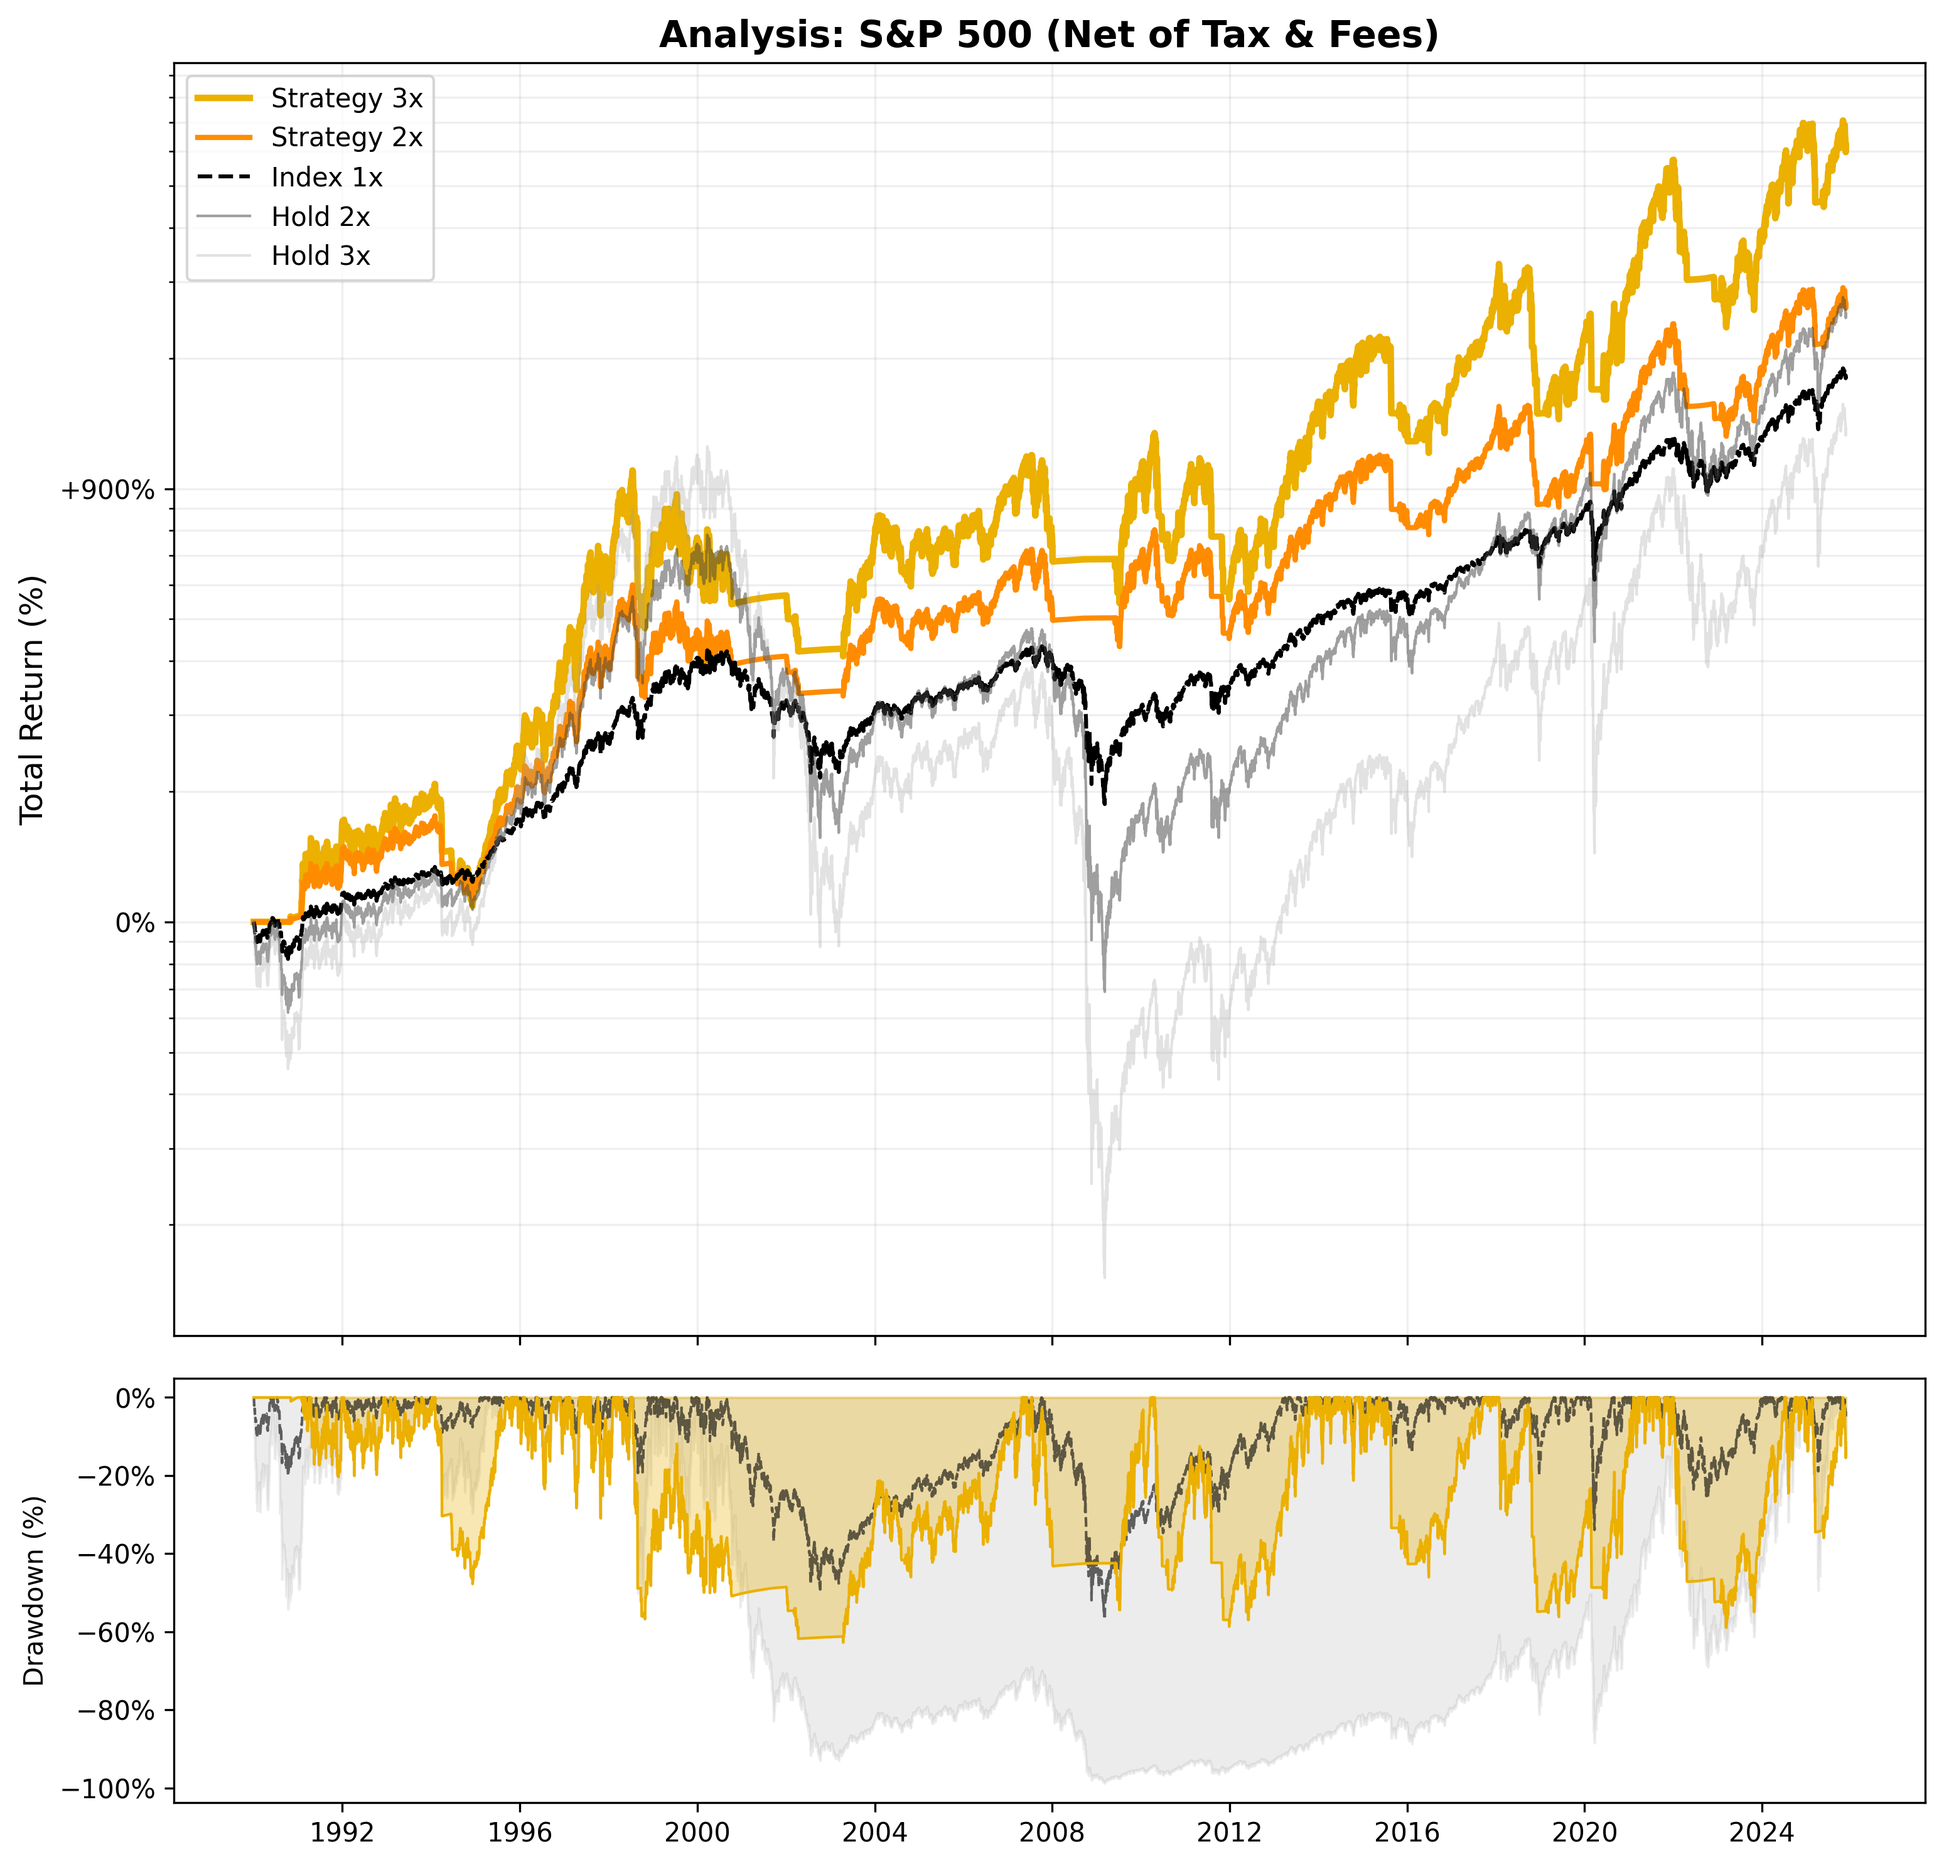
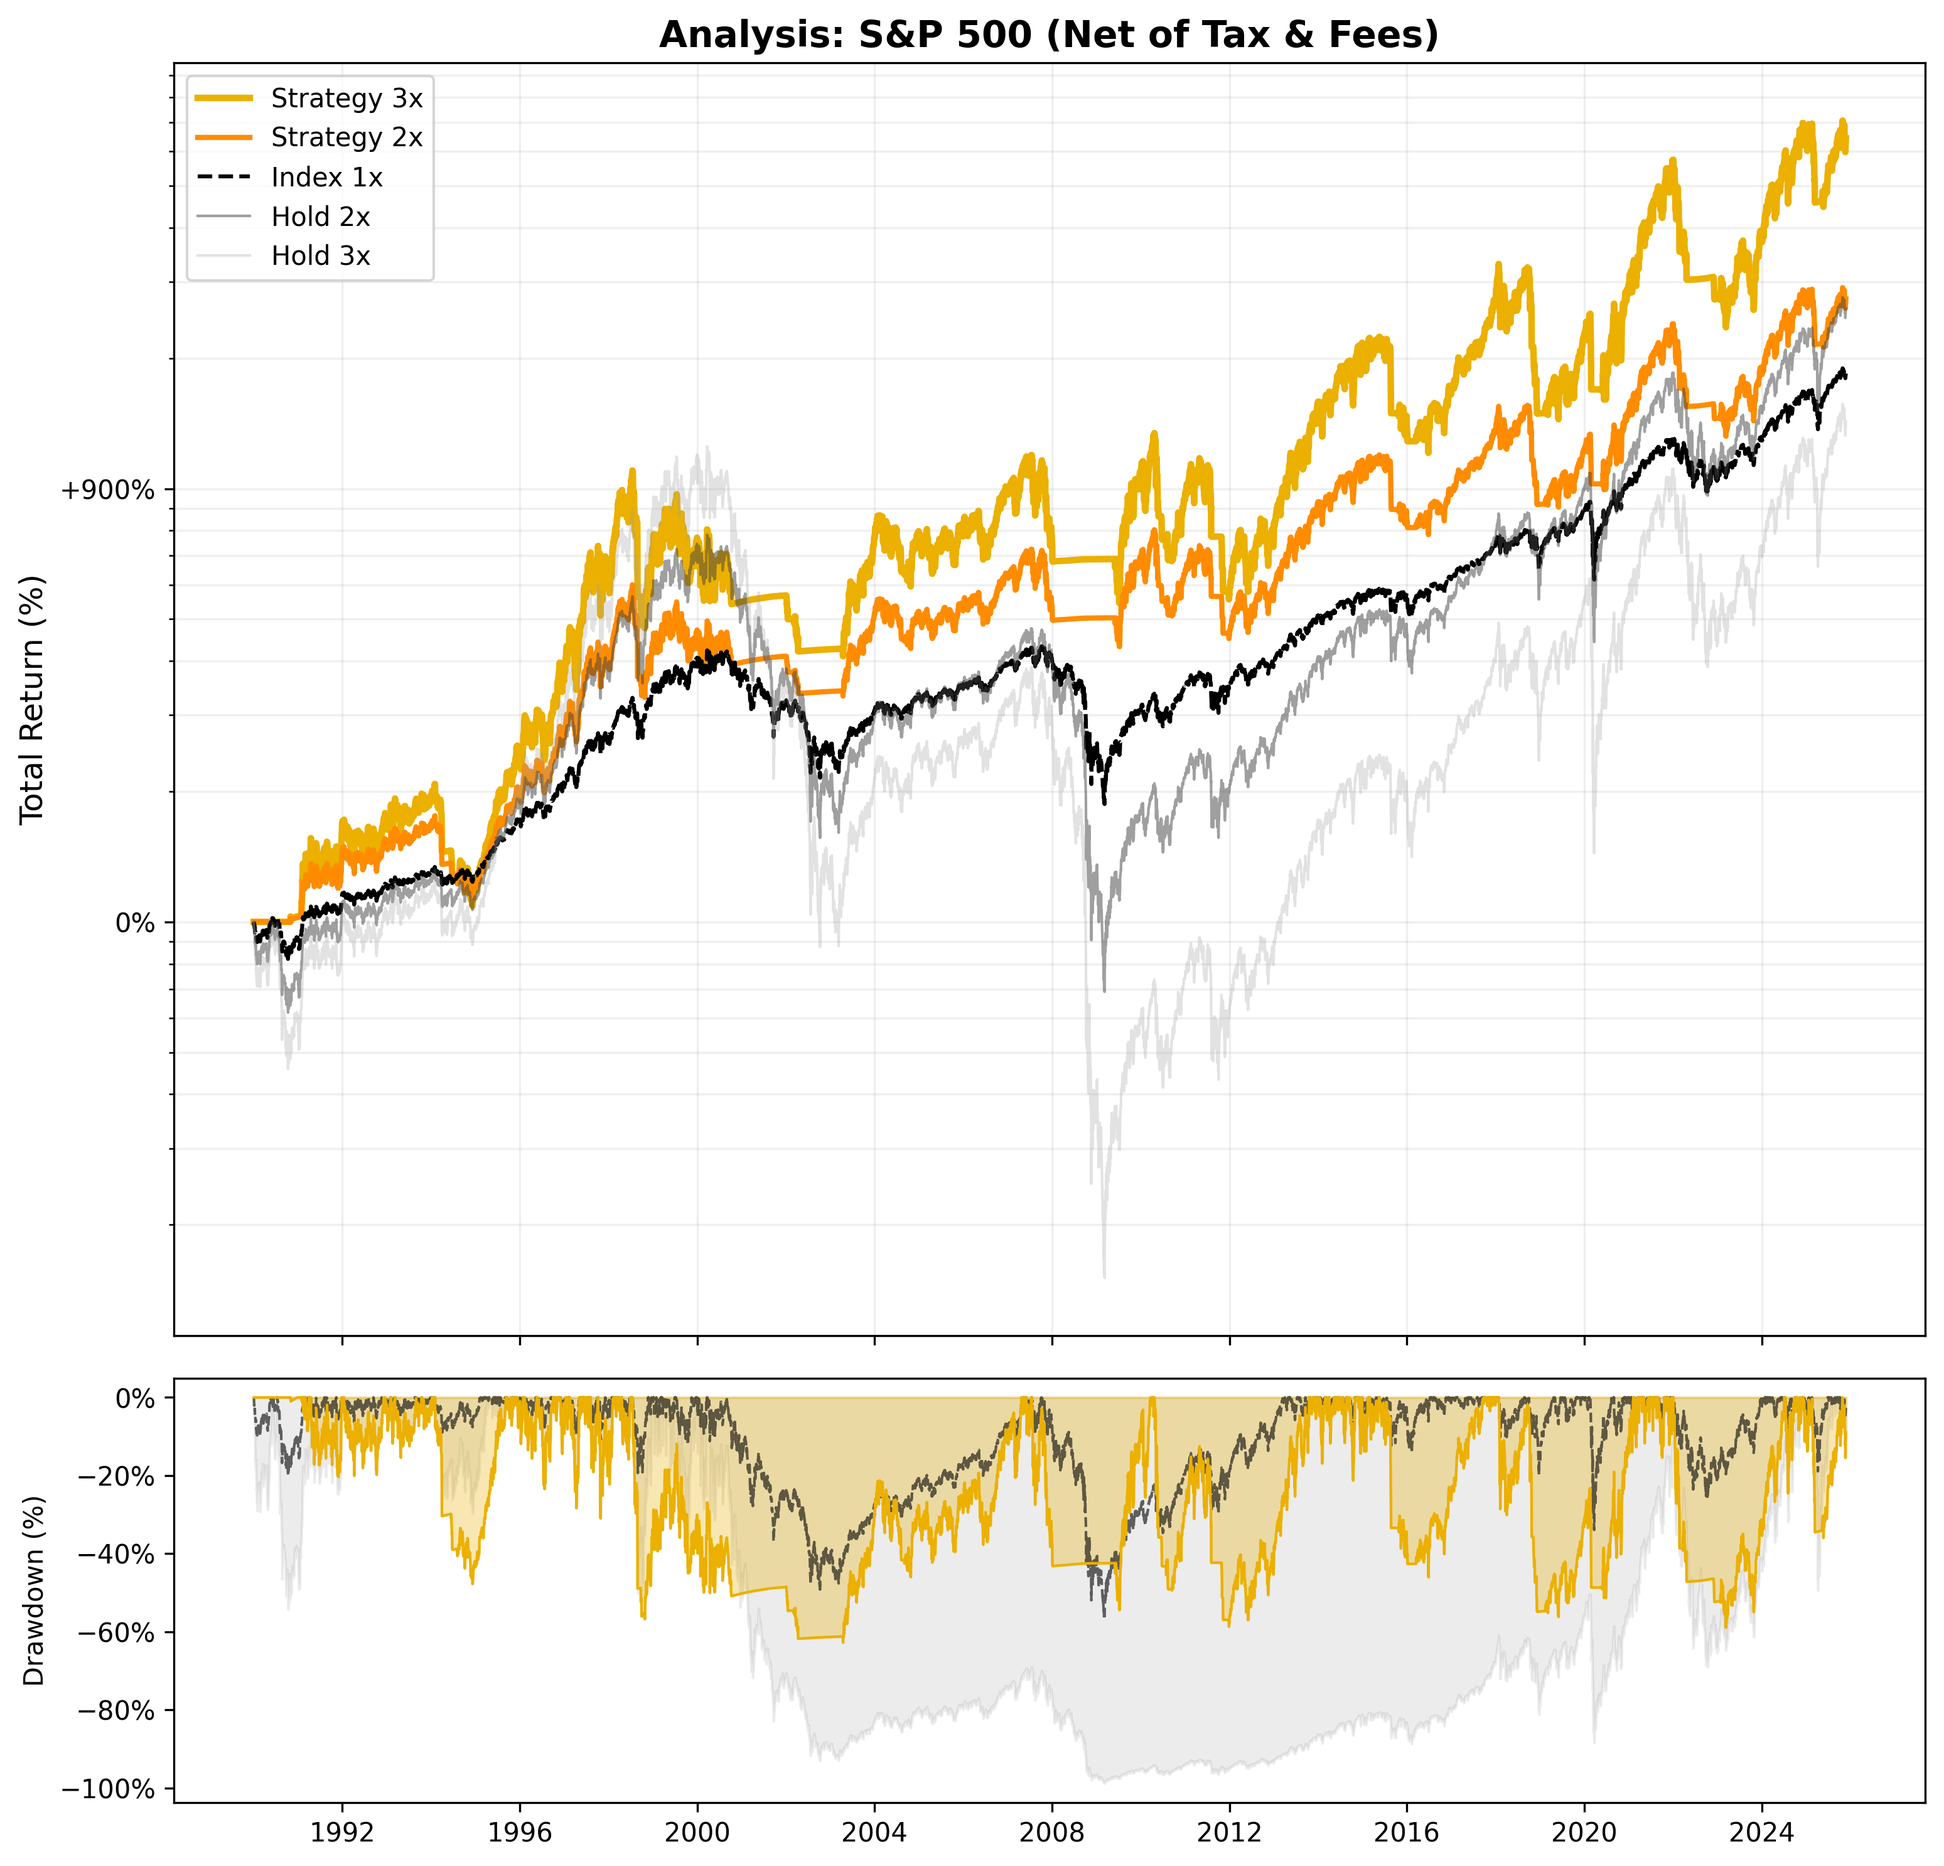
📊 Daily analysis update - 2025-11-25

diff --git a/examples/S&P_500.md b/examples/S&P_500.md
@@ -1,23 +1,23 @@
 # 📈 Strategy Report: S&P 500
 
-**Date:** 2025-11-24 06:18
+**Date:** 2025-11-25 03:42
 **Index:** ^GSPC
 **Settings:** Tax 27.500000000000004% | Spread 0.5% | Slip 0.2%
 
 ## 1. Performance (Net of Tax)
 | Strategy | Best Parameters | Total Return | CAGR | Max Drawdown |
 | :--- | :--- | :---: | :---: | :---: |
-| Strategy 3x | `SMA 210 / Buf 3.0% / SL 12%` | **6,056%** | **12.17%** | -62.76% 
-| Strategy 2x | `SMA 210 / Buf 3.0% / SL 12%` | 2,559% | 9.57% | -45.09%
-| Index 1x | - | 1,244% | 7.51% | -56.79% 
-| Index 2x | - | 1,759% | 8.48% | -91.18%
-| Index 3x | - | 917% | 6.68% | -98.79% 
+| Strategy 3x | `SMA 210 / Buf 3.0% / SL 12%` | **6,340%** | **12.30%** | -62.76% 
+| Strategy 2x | `SMA 210 / Buf 3.0% / SL 12%` | 2,641% | 9.66% | -45.09%
+| Index 1x | - | 1,265% | 7.55% | -56.79% 
+| Index 2x | - | 1,815% | 8.57% | -91.18%
+| Index 3x | - | 963% | 6.81% | -98.79% 
 
-## 2. Current Status (2025-11-21)
+## 2. Current Status (2025-11-24)
 | Strategy | Phase | Profit | Days | Analysis | Action |
 | :--- | :---: | :---: | :---: | :--- | :---: |
-| Strategy 3x | LONG | +34.11% | 193 | `SAFETY: 8.16%` | **HOLD** |
-| Strategy 2x | LONG | +23.26% | 193 | `SAFETY: 8.16%` | **HOLD** |
+| Strategy 3x | LONG | +40.29% | 196 | `SAFETY: 9.56%` | **HOLD** |
+| Strategy 2x | LONG | +27.05% | 196 | `SAFETY: 9.56%` | **HOLD** |
 
 ## 3. Visualization
 ![Chart](S&P_500.png)
